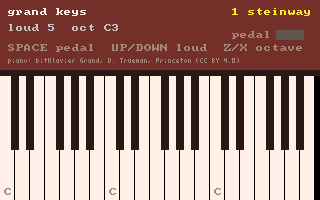
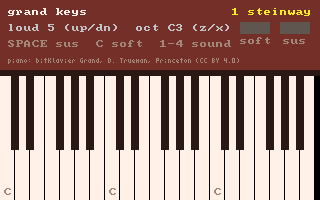
grandkeys: PLEYEL voicing + SOFT pedal (una corda), no new samples
PLEYEL = the same Steinway recordings voiced like an 1840s Pleyel: a low-pass
at 7x the fundamental, 6 dB/s extra fade (note_vol), a lighter touch. Measured
on a C3 chord: centroid 328 -> 258 Hz, 16 dB less above 4 kHz, 15 dB more
decay by 2.5 s. SOFT pedal (C / CC67 / on screen), at the strike: -3.7 dB and
a low-pass at 9x the fundamental (centroid 270 Hz). Undarkened notes play with
the filter OFF, so the Steinway stays bit-identical (an open 18 kHz low-pass
cost 2.4 dB of top). Sounds are 1-4; on-screen pedals for touch.

diff --git a/tools/carts/grandkeys.c b/tools/carts/grandkeys.c
@@ -9,8 +9,8 @@
   "lineage": "The playable face of steinway.h: a real Steinway D (bitKlavier Grand, Daniel Trueman, Princeton, CC BY 4.0) on INSTR_PIANO's hybrid, measured note by note in pianoref and first heard in openstrings. keybed.h does the keys.",
   "description": {
     "summary": "Play a real Steinway grand yourself. Every key starts with a recording of the real piano, and when you hold it (or the pedal) past a few seconds the note carries on as a modelled string, so it rings as long as a real one.",
-    "detail": "There are 13 recordings, one every half octave; every other key plays its nearest one a little faster or slower. At 2.6 s each note fades from the recording into a waveguide string tuned to match it, which is why a held chord keeps ringing past the 3.2 s the recordings last. 1 2 3 pick one of three sounds: the Steinway, the modelled piano alone, and SINE KEY, two sines 6 cents apart with chorus and delay (Felucca's preset, MIT, as Flyfish plays it). Piano: bitKlavier Grand Sample Library, Daniel Trueman, Princeton University (CC BY 4.0).",
-    "controls": "keys: A-L white, W E T Y U O P black (Z/X octave) · mouse/touch on the keys · a MIDI keyboard works too · SPACE (or a MIDI sustain pedal) = sustain pedal · UP/DOWN loudness · 1 Steinway / 2 modelled piano / 3 sine key"
+    "detail": "There are 13 recordings, one every half octave; every other key plays its nearest one a little faster or slower. At 2.6 s each note fades from the recording into a waveguide string tuned to match it, which is why a held chord keeps ringing past the 3.2 s the recordings last. 1-4 pick a sound: the Steinway, a PLEYEL (the same recordings voiced like the 1840s piano Chopin played: darker, a quicker decay, a lighter touch), the modelled piano alone, and SINE KEY, two sines 6 cents apart with chorus and delay (Felucca's preset, MIT, as Flyfish plays it). Piano: bitKlavier Grand Sample Library, Daniel Trueman, Princeton University (CC BY 4.0).",
+    "controls": "keys: A-L white, W E T Y U O P black (Z/X octave) · mouse/touch on the keys · a MIDI keyboard works too · SPACE (or MIDI CC64, or the on-screen pedal) = sustain · C (or CC67, or the on-screen pedal) = soft pedal, una corda: notes struck with it down are quieter and darker · UP/DOWN loudness · 1 Steinway / 2 Pleyel / 3 modelled piano / 4 sine key"
   }
 }
 de:meta */
@@ -25,22 +25,63 @@ de:meta */
 #include "steinway.h"
 #include <stdio.h>
 #include <string.h>
+#include <math.h>
 
 #define SLOT    5
 #define SL_SINE 6
 #define KEY_TOP 76
 
+enum { S_STEINWAY, S_PLEYEL, S_MODEL, S_SINE, S_N };
+static const char *SOUND_NAME[S_N] = { "1 steinway", "2 pleyel", "3 model", "4 sine key" };
 static bool  ok = false;               // recordings loaded
-static int   sound = 0;                // 1 2 3: 0 the Steinway · 1 the modelled piano alone · 2 SINE KEY
-static const char *SOUND_NAME[3] = { "1 steinway", "2 model", "3 sine key" };
-static bool  pedal = false;
+static int   sound = S_STEINWAY;       // 1-4 pick it
+static bool  pedal = false, soft = false;
 static int   vel = 5;                  // 5 = the loudness the recordings were made at
 static int   hnd[128];                 // the voice sounding on each key, -1 = none
 static bool  sus[128];                 // let go while the pedal was down: still ringing
+static float vol0[128];                // the note's volume at the strike (the Pleyel fade rides it down)
+static int   age[128];                 // frames since the strike
+
+// ── PLEYEL: the same Steinway recordings, voiced after the piano Chopin played (Flyfish's idea; our own
+// numbers). An 1840s Pleyel is lighter-built than a modern grand: leather-and-felt hammers, lighter strings,
+// a smaller sound that dies sooner. So: DARKER (a low-pass that follows the note, its overtones above
+// ~7x the fundamental cut, as a softer hammer would), a QUICKER DECAY (6 dB/s on top of the Steinway's
+// own), and a LIGHTER touch (a little quieter at the same key velocity).
+#define PL_HARM   7.0f                 // the low-pass sits at this many times the fundamental ...
+#define PL_LO     900.0f               // ... but never below / above these
+#define PL_HI     5000.0f
+#define PL_FADE   6.0f                 // extra dB a second
+#define PL_TOUCH  0.85f
+// ── SOFT PEDAL (una corda): the action shifts so the hammer hits fewer strings with a less-worn part of
+// its felt, so a note struck with it down is QUIETER and DARKER. It acts at the strike, as on a piano:
+// pressing it under a sounding note changes nothing.
+#define SOFT_VOL  0.65f                // ~ -3.7 dB
+#define SOFT_HARM 9.0f                 // the low-pass at 9x the fundamental (1200 .. 6000 Hz) ...
+#define SOFT_CUT  0.6f                 // ... or lower still under a Pleyel, whichever is darker
+#define OPEN_HZ   18000                // at or above this a note plays with its filter OFF
+
+static float midi_hz(int m) { return 440.0f * powf(2.0f, (m - 69) / 12.0f); }
 
 static void key_down(int m, int v) {
     if (hnd[m] >= 0) note_off(hnd[m]);           // the same key struck again: a fresh strike
-    hnd[m] = note_on(m, sound == 2 ? SL_SINE : SLOT, v);
+    float vv = (float)v;
+    float cut = OPEN_HZ;
+    if (sound == S_PLEYEL) {
+        vv *= PL_TOUCH;
+        cut = fminf(PL_HI, fmaxf(PL_LO, midi_hz(m) * PL_HARM));
+    }
+    if (soft) {
+        vv *= SOFT_VOL;
+        cut = fminf(cut * SOFT_CUT, fminf(6000.0f, fmaxf(1200.0f, midi_hz(m) * SOFT_HARM)));
+        if (cut < 400.0f) cut = 400.0f;
+    }
+    hnd[m] = note_on(m, sound == S_SINE ? SL_SINE : SLOT, v);
+    if (sound != S_SINE) {                       // a note that needs no darkening gets NO filter: even an
+        if (cut >= OPEN_HZ) note_filter(hnd[m], FILTER_OFF);   // "open" 18 kHz low-pass took 2.4 dB off the top
+        else note_cutoff(hnd[m], (int)cut);
+    }
+    note_vol(hnd[m], vv);
+    vol0[m] = vv; age[m] = 0;
     sus[m] = false;
 }
 static void key_up(int m) {
@@ -53,12 +94,29 @@ static void pedal_up(void) {
         if (sus[m]) { if (hnd[m] >= 0) note_off(hnd[m]); hnd[m] = -1; sus[m] = false; }
 }
 
+static void set_sound(int s) {
+    sound = s;
+    if (ok) { if (s == S_STEINWAY || s == S_PLEYEL) steinway_use(SLOT, 0); else steinway_detach(SLOT); }
+}
+
+// the two pedals on the fallboard, soft (left) and sustain (right): a finger or the mouse can hold them
+static const int PED_Y = 22, PED_W = 30, PED_H = 12;
+static int ped_x(int i) { return SCREEN_W - 80 + i * 40; }
+static bool ped_touched(int i) {
+    for (int t = 0; t < touch_count(); t++) {
+        int x = touch_x(t), y = touch_y(t);
+        if (x >= ped_x(i) && x < ped_x(i) + PED_W && y >= PED_Y && y < PED_Y + PED_H) return true;
+    }
+    return false;
+}
+
 void init(void) {
     for (int m = 0; m < 128; m++) hnd[m] = -1;
     instrument(SLOT, INSTR_PIANO, 1, 0, 7, 150);  // held while the key is down; 150 ms damper on release
     instrument_harmonics(SLOT, 0.08f);            // the grand voicing
     instrument_timbre(SLOT, 0.5f);
     instrument_morph(SLOT, 1.0f);                 // an undamped string while held, like the recordings
+    instrument_filter(SLOT, FILTER_LOW, OPEN_HZ, 0);   // per note: the Pleyel + the soft pedal set it (note_cutoff)
     instrument_reverb(SLOT, 0.22f);
     reverb(0.5f, 0.4f);
     // SINE KEY: Felucca's preset of that name (Felucca-Engines src/eng_analog.c, MIT, (c) 2026 Leo Kuroshita,
@@ -74,31 +132,36 @@ void init(void) {
     echo(300, 0.35f, 0.5f);
     ok = steinway_load(0) == STEINWAY_ZONES;
     instrument_mode(SLOT, MODE_PIANO_MODEL, 1.0f);
-    if (ok) steinway_use(SLOT, 0); else sound = 1;
+    if (ok) steinway_use(SLOT, 0); else sound = S_MODEL;
     keybed_config(SLOT, 3, 21);                   // C3 .. B5, three octaves; Z / X shift
     keybed_layout(0, KEY_TOP, SCREEN_W, SCREEN_H - KEY_TOP);
     keybed_velocity(vel);
-    keybed_manage_voices(false);                  // the cart owns the voices (the pedal)
+    keybed_manage_voices(false);                  // the cart owns the voices (the pedals)
     keybed_on_note(key_down);
     keybed_on_off(key_up);
 }
 
 void update(void) {
-    bool p = key(KEY_SPACE) || midi_cc(0, 64) >= 64;
+    bool p = key(KEY_SPACE) || midi_cc(0, 64) >= 64 || ped_touched(1);
     if (pedal && !p) { pedal = false; pedal_up(); }
     pedal = p;
+    soft = key('C') || midi_cc(0, 67) >= 64 || ped_touched(0);
     if (keyp(KEY_UP))   { if (vel < 7) vel++; keybed_velocity(vel); }
     if (keyp(KEY_DOWN)) { if (vel > 1) vel--; keybed_velocity(vel); }
-    for (int k = 0; k < 3; k++)                   // 1 2 3 pick the sound (not P: P is a black key on the keybed)
-        if (keyp('1' + k) && (k != 0 || ok) && k != sound) {
-            sound = k;
-            if (ok) { if (sound == 0) steinway_use(SLOT, 0); else steinway_detach(SLOT); }
-        }
+    for (int k = 0; k < S_N; k++)                 // 1-4 pick the sound (not P: P is a black key on the keybed)
+        if (keyp('1' + k) && (ok || (k != S_STEINWAY && k != S_PLEYEL)) && k != sound) set_sound(k);
     keybed_update();
+    // the Pleyel's quicker decay: ride every sounding note down, PL_FADE dB a second past the Steinway's own
+    if (sound == S_PLEYEL)
+        for (int m = 0; m < 128; m++) if (hnd[m] >= 0) {
+            age[m]++;
+            note_vol(hnd[m], vol0[m] * powf(10.0f, -PL_FADE * (float)age[m] / 60.0f / 20.0f));
+        }
 #ifdef DE_TRACE
     int n = 0; for (int m = 0; m < 128; m++) if (hnd[m] >= 0) n++;
     watch("sounding", "%d", n);
     watch("pedal", "%d", pedal ? 1 : 0);
+    watch("soft", "%d", soft ? 1 : 0);
 #endif
 }
 
@@ -114,16 +177,18 @@ void draw(void) {
     rectfill(0, 0, SCREEN_W, KEY_TOP - 6, CLR_DARK_BROWN);
     rectfill(0, KEY_TOP - 6, SCREEN_W, 6, CLR_BROWNISH_BLACK);
     print("grand keys", 8, 8, CLR_WHITE);
-    print(SOUND_NAME[sound], SCREEN_W - 8 - 8 * (int)strlen(SOUND_NAME[sound]), 8, sound == 0 ? CLR_YELLOW : CLR_LIGHT_GREY);
+    print(SOUND_NAME[sound], SCREEN_W - 8 - 8 * (int)strlen(SOUND_NAME[sound]), 8, sound <= S_PLEYEL ? CLR_YELLOW : CLR_LIGHT_GREY);
     char b[48];
-    snprintf(b, sizeof b, "loud %d  oct C%d", vel, keybed_octave());
+    snprintf(b, sizeof b, "loud %d (up/dn)  oct C%d (z/x)", vel, keybed_octave());
     print(b, 8, 24, CLR_LIGHT_GREY);
-    // the pedal
-    int px = SCREEN_W - 44, py = 30;
-    rectfill(px, py, 28, 10, pedal ? CLR_YELLOW : CLR_DARK_GREY);
-    print("pedal", px - 44, py + 1, pedal ? CLR_YELLOW : CLR_MEDIUM_GREY);
-    print("SPACE pedal  UP/DOWN loud  Z/X octave", 8, 44, CLR_MEDIUM_GREY);
-    if (ok && sound == 0) {                             // CC BY 4.0: the credit shows while it plays
+    // the pedals: soft (left), sustain (right)
+    for (int i = 0; i < 2; i++) {
+        bool on = i ? pedal : soft;
+        rectfill(ped_x(i), PED_Y, PED_W, PED_H, on ? CLR_YELLOW : CLR_DARK_GREY);
+        print(i ? "sus" : "soft", ped_x(i) + (i ? 3 : 0), PED_Y + PED_H + 3, on ? CLR_YELLOW : CLR_MEDIUM_GREY);
+    }
+    print("SPACE sus  C soft  1-4 sound", 8, 40, CLR_MEDIUM_GREY);
+    if (ok && (sound == S_STEINWAY || sound == S_PLEYEL)) {                             // CC BY 4.0: the credit shows while it plays
         font(FONT_TINY);
         print("piano: bitKlavier Grand, D. Trueman, Princeton (CC BY 4.0)", 8, 58, CLR_MEDIUM_GREY);
         font(FONT_NORMAL);

diff --git a/docs/STATUS.md b/docs/STATUS.md
@@ -1212,8 +1212,8 @@ Detail lives in the linked design doc in every case; that is where it was always
   sympathetic resonator by far over our synth piano (`openstrings`, P/R). Left to do, in order: (1) BAKE
   the 13 notes from `assets/samples/steinway/` into carts so web/app builds play them (today they are read
   from disk at runtime: editor + play.js only), shrunk the Flyfish way (per-register length 3.1 s → 0.7 s,
-  22 kHz, maybe ADPCM: 3.5 MB → ~0.25-1 MB); (2) a real MULTISAMPLE instrument (one slot, zones by key)
-  instead of a slot per zone; (3) VELOCITY layers from Princeton's original 16 (soft = darker, not just
+  22 kHz, maybe ADPCM: 3.5 MB → ~0.25-1 MB); ~~(2) a real MULTISAMPLE instrument (one slot, zones by key)
+  instead of a slot per zone~~ (made unnecessary by the hybrid: one piano slot holds every zone); (3) VELOCITY layers from Princeton's original 16 (soft = darker, not just
   quieter; mind CC BY credit); (4) `pianohand`'s hand-built halo → the resonator; (5) THE ALTERNATIVE ROUTE: a measuring pass
   to bring INSTR_PIANO closer to these notes (oneshot-compare / inharm-spec / patch-match, the samples as
   reference), and if tuning cannot close the gap, a second piano engine (e.g. commuted synthesis: the
@@ -1222,8 +1222,9 @@ Detail lives in the linked design doc in every case; that is where it was always
   knock off; tail good by ear, onset not yet); probe `pianoref` (S = A/B). (1) + the HYBRID DONE 2026-11-09: `runtime/steinway.h`
   (generated, `tools/gen-steinway.js`) bakes all 13 notes in as 4-bit ADPCM (896 KB, 35-49 dB SNR; trimming was not possible,
   the bass is still only ~20 dB under its peak at 3.1 s), and `instrument_piano_attack` fades each recording into the model at
-  2.6 s ("sounds great"; a 70-300 ms splice was plainly audible). `openstrings` plays it by default (P = model alone). Left:
-  (3) velocity layers. Design + measurements:
+  2.6 s ("sounds great"; a 70-300 ms splice was plainly audible). `openstrings` plays it by default (P = model alone); `grandkeys` plays it from a keybed with sustain + SOFT
+  pedals and a PLEYEL voicing (filter + fade, no new samples). Left: (3) velocity layers (needs the full library
+  download + engine work: 16 sample slots, and zones have no velocity axis). Design + measurements:
   [sympathetic-resonator.md](design/sympathetic-resonator.md).
 - **TWO GATES ARE RED on master, from before 2026-11-03** (found 2026-11-03). `refactor-guard` flags
   `acidcandy` because its baseline predates the commits since (re-bless on a settled tree after checking the

diff --git a/docs/guides/instrument-recipes.md b/docs/guides/instrument-recipes.md
@@ -504,6 +504,7 @@ voicing/stiffness / hammer-softness / pedal-sustain.
 > HYBRID below.
 
 | piano/steinway hybrid | openstrings.c, pianoref.c | as piano/steinway + `#include "steinway.h"` → `steinway_attach(slot, 0)` | A REAL Steinway D per note (13 recordings baked in, ~0.9 MB ADPCM, CC BY 4.0: show `STEINWAY_CREDIT`), fading into the modelled string at 2.6 s so held notes ring on past the 3.2 s recording. By ear: "sounds great". |
+| piano/pleyel + soft pedal | grandkeys.c | the steinway hybrid + per NOTE: `instrument_filter(slot, FILTER_LOW, …)` then `note_cutoff` / `note_filter(h, FILTER_OFF)` + `note_vol` | No new samples. PLEYEL (after the 1840s piano Chopin played; Flyfish's idea, our numbers): a low-pass at 7x the fundamental (900-5000 Hz), 6 dB/s extra fade ridden with `note_vol`, 0.85 touch. SOFT PEDAL (una corda), applied at the strike: x0.65 volume and a low-pass at 9x the fundamental (1200-6000 Hz). ⚠ A note needing no darkening must play with its filter OFF: an "open" 18 kHz low-pass took 2.4 dB off the Steinway's top. |
 
 > **The hybrid** (`instrument_piano_attack(slot, sample_slot, root_midi, splice_ms, xfade_ms)`, wrapped by
 > `steinway.h`): the recording plays from the strike, the model runs silently beside it, and at the splice
